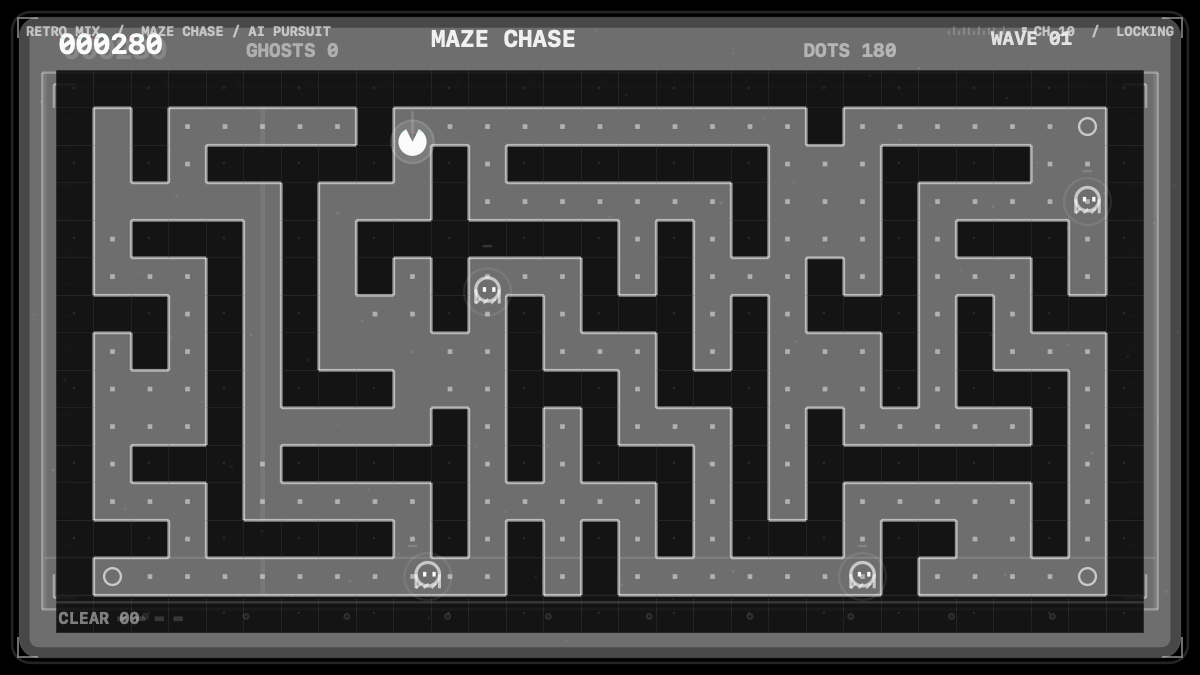
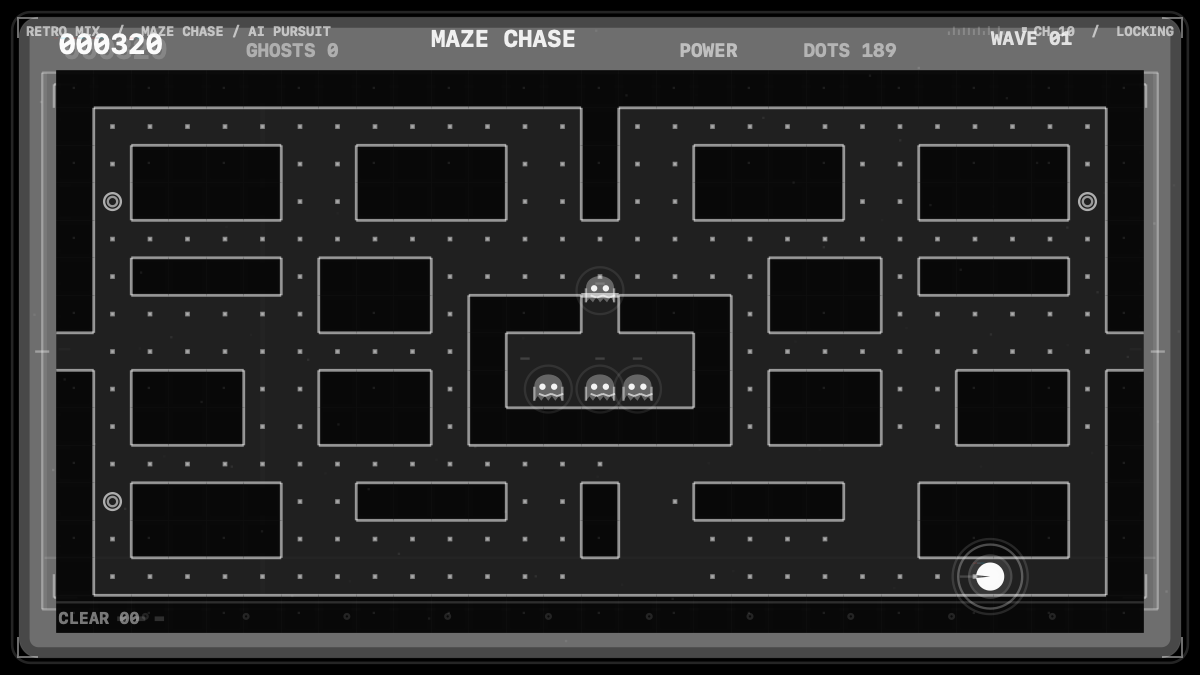
Document and preview Retro Mix Arcade 1.5.0

diff --git a/RELEASE_NOTES.md b/RELEASE_NOTES.md
@@ -1,26 +1,29 @@
-# Retro Mix Arcade 1.4.0
+# Retro Mix Arcade 1.5.0
 
-Three more autonomous games join the screen saver, bringing the total to ten:
+This release substantially rebuilds the three newest screen saver games while
+keeping Retro Mix Arcade's monochrome CRT style and existing effect controls.
 
-- **Missile Defense**, inspired by Missile Command: three AI batteries prioritize
-  threats and launch interceptors to protect six cities. Later waves introduce
-  splitting missiles and a faster attack pace.
-- **Star Squadron**, inspired by Galaga: alien formations move and dive while
-  an AI pilot tracks targets, fires, and survives enemy shots.
-- **Maze Chase**, inspired by Pac-Man: a self-playing runner collects pellets
-  through newly generated mazes while four hunters chase, scatter, and retreat
-  during power phases.
+- **Missile Defense:** Six cities now persist between waves. Three batteries
+  have limited ammunition and can be destroyed. Later waves add splitting and
+  evasive missiles. The AI predicts intercept points, prioritizes threats,
+  and earns bonuses for surviving cities and unused ammunition. Incoming
+  trails, targeting marks, and expanding blasts are easier to follow.
+- **Star Squadron:** Distinct enemy types enter formation, peel off on curved
+  dives, and return smoothly. Bosses have tougher hulls and can use a tractor
+  beam; the AI can rescue a captured fighter and fire with two ships. Shot
+  dodging, explosion sprites, and challenge waves add variety.
+- **Maze Chase:** A mirrored maze now includes a ghost house, side tunnel,
+  four hunters with different targets, alternating chase and scatter periods,
+  frightened behavior, bonus fruit, and lives. The runner routes around the
+  ghost house, clears pellets, pursues frightened ghosts, and starts another
+  round. Independent motion timing keeps all four ghosts moving smoothly;
+  animated hems, directional eyes, returning ghost eyes, a timed chomping
+  mouth, and a closing death animation give the characters more life.
 
-Each game has 60 selectable effects, including Sprint's shared CRT controls and
-its own game-specific visuals. All three appear in the live app preview, the
-System Settings Options sheet, and Mixed rotation. Existing Mixed selections
-migrate automatically. The new app preview thumbnails and gameplay captures
-come from the running screen saver.
-
-Automated play ran each new game for 300 simulated seconds. Full-size tests
-passed 60 game switches and transition frames without black screens. At
-2560 × 1440, the new games averaged about 15–22 ms per frame on the
-development Mac; actual performance depends on the display and enabled effects.
+In repeated five-minute simulations, the missile AI cleared at least 14
+waves, the squadron pilot completed at least 15 waves, and the maze runner
+cleared at least five boards. Full-size switching and render tests passed on
+the development Mac; actual speed depends on the display and enabled effects.
 
 ## Installation
 

diff --git a/README.md b/README.md
@@ -58,11 +58,14 @@ Security → Open Anyway** as described in [Apple's instructions](https://suppor
 - Moonlander's AI pilot manages thrust, sideways drift, fuel, and changing
   landing sites. Later missions add rugged ridges and cavern routes with two
   or three alternating openings before a narrow landing pad.
-- Missile Defense has three AI controlled batteries protecting six cities from
-  incoming and splitting missiles. Star Squadron has formation waves, diving
-  enemies, and an autonomous pilot. Maze Chase has generated mazes, four
-  pursuing hunters, pellets, and power phases. These games are inspired by
-  Missile Command, Galaga, and Pac-Man respectively.
+- Missile Defense carries city damage across waves and adds splitting and
+  evasive missiles, destructible batteries, and wave bonuses. Star Squadron
+  has distinct enemies, looping dives, challenge stages, a tractor beam, and
+  a rescuable second fighter. Maze Chase has a mirrored maze, center ghost
+  house, side tunnel, bonus fruit, four smoothly animated hunters with
+  different targets, and a pellet-clearing player that pursues frightened
+  ghosts.
+  These games are inspired by Missile Command, Galaga, and Pac-Man respectively.
 - Tank Duel's dark field, bright walls, small rotating tanks, and simple score
   display take cues from the original arcade game.
 - A moving JMR watermark that can be removed with a personal code from the
@@ -87,6 +90,8 @@ Security → Open Anyway** as described in [Apple's instructions](https://suppor
 | Missile Defense | Star Squadron | Maze Chase |
 | --- | --- | --- |
 | ![Missile Defense](Images/Screenshots/missile-defense.png) | ![Star Squadron](Images/Screenshots/star-squadron.png) | ![Maze Chase](Images/Screenshots/maze-chase.png) |
+
+![Star Squadron tractor beam](Images/Screenshots/star-squadron-beam.png)
 
 This repository contains downloads and documentation. Third-party license
 information is in [THIRD_PARTY_NOTICES.md](THIRD_PARTY_NOTICES.md).
